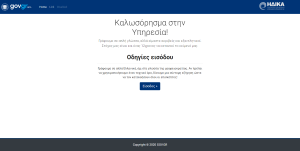
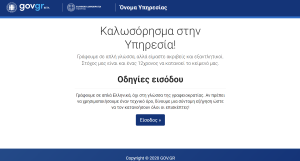
updated examples and images (index.html)

Changed region(s): [[0.0, 0.0, 1.0, 0.3179], [0.24, 0.3444, 0.75, 0.7947], [0.0, 0.9007, 1.0, 1.0]]

diff --git a/Styling/govgr-bootstrap-theme-kit/examples/index.html b/Styling/govgr-bootstrap-theme-kit/examples/index.html
@@ -1,0 +1,157 @@
+<!DOCTYPE html>
+<html lang="el">
+
+<head>
+
+  <meta charset="utf-8">
+  <meta name="viewport" content="width=device-width, initial-scale=1, shrink-to-fit=no">
+  <meta name="description" content="">
+  <meta name="author" content="">
+  
+  <title>GOV.GR - Bootstrap Theme Kit</title>
+
+  <link rel="shortcut icon" href="./images/gov_logo_16x16_favicon.png">
+
+  <!-- Custom GOV.GR theme - This already includes Bootstrap 4 -->
+  <link href="./css/govgr_bootstrap.min.css" rel="stylesheet">
+
+  <!-- Custom styles for this template -->
+  <link href="./index.css" rel="stylesheet">
+
+</head>
+
+<body class="d-flex flex-column h-100">
+
+  <!-- Header -->
+  <header class="bg-primary mb-5">
+    <div class="container h-100">
+      <div class="row h-100 align-items-center">
+        <div class="col-lg-8">
+          <div class="logo_govgr"></div>
+          <h1 class="display-4 text-white mt-5 mb-2">Bootstrap Theme Kit</h1>
+          <p class="lead mb-5 text-white-50">
+            A project to help you get started quickly when developing a GOV.GR-like website using Bootstrap.
+            It includes a project structure with a gulp script that builds a custom CSS version of Bootstrap 4, according to the styling guidelines of GOV.GR</p>
+        </div>
+        <div class="col-lg-4">
+          <img src="./images/govgr-bootstrap-theme.png" />
+        </div>
+      </div>
+    </div>
+  </header>
+
+  <!-- Page Content -->
+  <div class="container">
+
+    <div class="row mb-3">
+      <div class="col-md-8 themed-grid-col"> <!-- left column (on desktop) -->
+        <div class="pb-3">
+          <h2>Page Templates</h2> 
+          <p> reference page templates </p>
+        </div>
+        <div class="row">
+          <div class="col-md-6 themed-grid-col">
+            
+            <div class="card h-100">
+              <img class="card-img-top" src="./images/screencapture-base.png" alt="Base Page">
+              <div class="card-body">
+                <h4 class="card-title">Base</h4>
+                <p class="card-text">A starter base page.</p>
+              </div>
+              <div class="card-footer">
+                <a href="./templates/base/base.html" class="btn btn-primary">Browse Page</a>
+              </div>
+            </div>
+
+          </div>
+          <div class="col-md-6 themed-grid-col">
+
+            <div class="card h-100">
+              <img class="card-img-top" src="./images/screencapture-login.png" alt="Login Page">
+              <div class="card-body">
+                <h4 class="card-title">Login Page</h4>
+                <p class="card-text">A page with a login form.</p>
+              </div>
+              <div class="card-footer">
+                <a href="./templates/login/login.html" class="btn btn-primary">Browse Page</a>
+              </div>
+            </div>
+
+          </div>
+        </div>
+        <div class="row py-5">
+          <div class="col-md-6 themed-grid-col"> 
+
+            <div class="card h-100">
+              <img class="card-img-top" src="./images/screencapture-landingpage.png" alt="Landing Page">
+              <div class="card-body">
+                <h4 class="card-title">Landing Page 1</h4>
+                <p class="card-text">A sample landing page, using a large header with title and subtitle.</p>
+              </div>
+              <div class="card-footer">
+                <a href="./templates/landingpage/landingpage.html" class="btn btn-primary">Browse Page</a>
+              </div>
+            </div>
+
+          </div>
+          <div class="col-md-6 themed-grid-col">
+
+            <div class="card h-100">
+              <img class="card-img-top" src="./images/screencapture-landingpage2.png" alt="Landing Page 2">
+              <div class="card-body">
+                <h4 class="card-title">Landing Page 2</h4>
+                <p class="card-text">A landing page with a small header and a second logo.</p>
+              </div>
+              <div class="card-footer">
+                <a href="./templates/landingpage/landingpage2.html" class="btn btn-primary">Browse Page</a>
+              </div>
+            </div>
+
+          </div>
+        </div>
+      </div>
+      <div class="col-md-4 border-left"> <!-- right column (on desktop) -->
+
+
+            <h2>Components  </h2>
+            <p></p>
+            <div class="list-group">
+              <a href="#" class="list-group-item list-group-item-action active">
+                Components
+              </a>
+              <a href="./components/header/header.html" class="list-group-item list-group-item-action">Header</a>
+              <a href="./components/footer/footer.html" class="list-group-item list-group-item-action">Footer</a>
+              <a href="./components/alert/alert.html" class="list-group-item list-group-item-action">Alert</a>
+              <a href="./components/button/button.html" class="list-group-item list-group-item-action">Button</a>
+              <a href="./components/input/input.html" class="list-group-item list-group-item-action">Input</a>
+              <a href="#" class="list-group-item list-group-item-action disabled" tabindex="-1" aria-disabled="true">Menu</a>
+            </div>
+            <p class="py-5">
+              <a href="./templates/reference/reference.html">Bootstrap Reference page</a>
+            </p>
+            
+
+      </div>
+
+    </div> <!-- end row -->
+
+
+
+  </div>
+  <!-- /.container -->
+
+  <!-- Footer -->
+  <footer id="sticky-footer" class="py-4 bg-dark text-white-50">
+    <div class="container">
+      <p class="m-0 text-center text-white">Copyright &copy; 2020 GOV.GR</p>
+      <p> GOVGR unit </p>
+      
+    </div>
+  </footer>
+
+  <!-- Put any javaScript scripts here-->
+ 
+
+</body>
+
+</html>

diff --git a/Styling/govgr-bootstrap-theme-kit/examples/templates/reference/reference.html b/Styling/govgr-bootstrap-theme-kit/examples/templates/reference/reference.html
@@ -14,42 +14,33 @@
   <!-- Custom GOV.GR theme - This already includes Bootstrap 4 -->
   <link href="../../css/govgr_bootstrap.min.css" rel="stylesheet">
 
+    <!-- Header and Footer styles -->
+    <link href="../../components/header/header.css" rel="stylesheet">
+    <link href="../../components/footer/footer.css" rel="stylesheet">
+
   <!-- Custom styles for this template -->
 
 </head>
 <body>
 
-<!-- Header Small-->
-<nav class="navbar navbar-expand-lg navbar-dark bg-primary">
-  <button class="navbar-toggler navbar-toggler-right" type="button" data-toggle="collapse"
-          data-target="#navbarTogglerDemo03" aria-controls="navbarTogglerDemo03"
-          aria-expanded="false"
-          aria-label="Toggle navigation">
-    <span class="navbar-toggler-icon"></span>
-  </button>
-  <!-- <a class="navbar-brand" href="#!">Navbar</a> -->
-  <a href="/" class="navbar-brand"><div class="logo_govgr logo_small"></div></a>
-
-  <div class="collapse navbar-collapse" id="navbarTogglerDemo03">
-    <ul class="navbar-nav mr-auto mt-2 mt-md-0">
-      <li class="nav-item active">
-        <a class="nav-link" href="#!">Home
-          <span class="sr-only">(current)</span>
-        </a>
-      </li>
-      <li class="nav-item">
-        <a class="nav-link" href="#!">Link</a>
-      </li>
-      <li class="nav-item">
-        <a class="nav-link disabled" href="#!">Disabled</a>
-      </li>
-    </ul>
-    <form class="form-inline my-2 my-lg-0">
-      <input class="form-control mr-sm-2" type="text" placeholder="Search">
-    </form>
-  </div>
-</nav>
-
+<!-- Header -->
+<header class="bg-primary">
+    <div class="container pb-4 pt-4">
+        <div class="d-flex flex-row justify-content-start py-2">
+            <div class="text-center text-sm-left pl-4 gov-logo-seperator">
+                <a class="logo_govgr logo_small" href="https://gov.gr"></a>
+            </div>
+            <div class="organization-logo ml-4">
+                <a href="https://test.gov.gr"><img src="../../images/org_logo.png" height="35"></a>
+            </div>
+            <div class="d-flex pl-4 justify-content-end flex-nowrap text-nowrap service-name">
+                <a href="" class="text-white text-decoration-none">Title service</a>
+            </div>
+        </div>
+    </div>
+    <div class="borderHeader"></div>
+</header>
+ 
 <div class="container-fluid">
   <div class="row mt-3">
     <div class="col-lg-3 col-md-6">
@@ -545,12 +536,14 @@
 </div>
 
   <!-- Footer -->
-  <footer class="py-5 bg-dark">
+  <footer class="footer mt-auto py-3 bg-primary">
     <div class="container">
-      <p class="m-0 text-center text-white">Copyright &copy; 2020 GOV.GR</p>
-      
+        <div class="d-flex flex-column justify-content-center pt-2">
+          <p class="text-white font-weight-light text-center flex-grow-1 mb-0 pb-2">Μια υπηρεσία του</p>
+          <div class="mx-auto pb-4 logo_govgr logo_xsmall"></div>
+        </div>
     </div>
-  </footer>
+</footer>
 
 <!-- jQuery first, then Popper.js, then Bootstrap JS -->
 <script src="https://code.jquery.com/jquery-3.3.1.slim.min.js" integrity="sha384-q8i/X+965DzO0rT7abK41JStQIAqVgRVzpbzo5smXKp4YfRvH+8abtTE1Pi6jizo" crossorigin="anonymous"></script>
